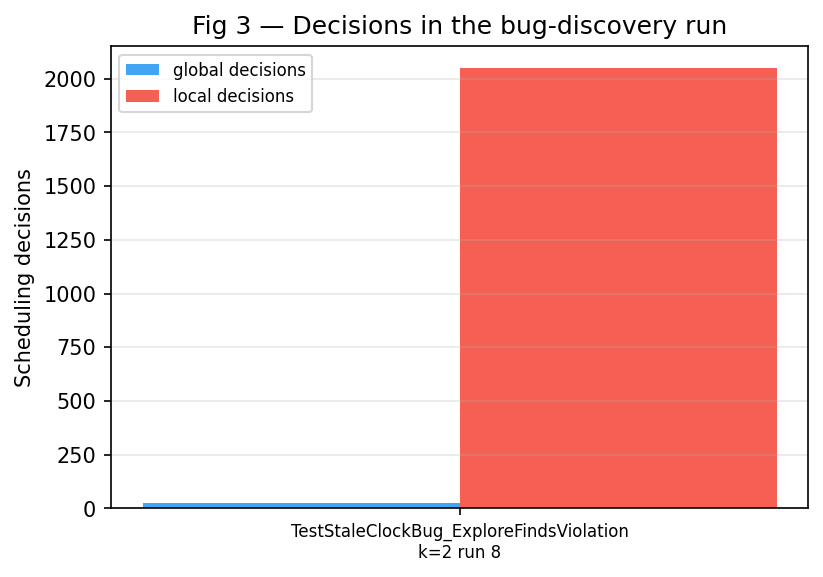
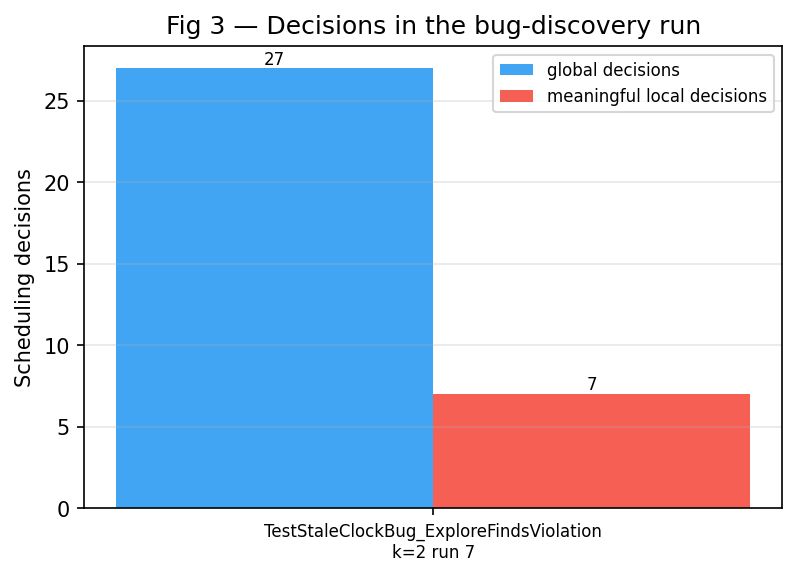
update local decision data count

diff --git a/orchestratorv2/metrics.go b/orchestratorv2/metrics.go
@@ -9,23 +9,28 @@ import (
 	"strconv"
 	"strings"
 	"testing"
+	"testing/synctest"
 	"time"
 )
 
 // RunRecord is the JSON-serializable snapshot of one exploration run.
 // Written to a JSONL file by NewJSONLObserver; read by charts/charts.py.
 type RunRecord struct {
-	RunNum              int             `json:"run_num"`
-	NonFIFO             int             `json:"non_fifo"`
-	ElapsedNs           int64           `json:"elapsed_ns"`
-	LogicalTimeNs       int64           `json:"logical_time_ns"`
-	Passed              bool            `json:"passed"`
-	GlobalDecisionCount int             `json:"global_decision_count"`
-	LocalDecisionTotal  int             `json:"local_decision_total"`
-	LocalDecisionByNode map[string]int  `json:"local_decision_by_node,omitempty"`
-	QueueSizes          []int           `json:"queue_sizes"`
-	TraceFingerprint    string          `json:"trace_fingerprint"`
-	DeliverSeq          []DeliverRecord `json:"deliver_seq"`
+	RunNum                int                              `json:"run_num"`
+	NonFIFO               int                              `json:"non_fifo"`
+	ElapsedNs             int64                            `json:"elapsed_ns"`
+	LogicalTimeNs         int64                            `json:"logical_time_ns"`
+	Passed                bool                             `json:"passed"`
+	GlobalDecisionCount   int                              `json:"global_decision_count"`
+	LocalDecisionTotal    int                              `json:"local_decision_total"`
+	LocalDecisionByNode   map[string]int                   `json:"local_decision_by_node,omitempty"`
+	LocalTraceTotal       int                              `json:"local_trace_total,omitempty"`
+	LocalTraceByNodeCount map[string]int                   `json:"local_trace_by_node_count,omitempty"`
+	LocalDecisionCapNode  map[string]bool                  `json:"local_decision_at_cap_by_node,omitempty"`
+	LocalTraceByNode      map[string][]LocalDecisionRecord `json:"local_trace_by_node,omitempty"`
+	QueueSizes            []int                            `json:"queue_sizes"`
+	TraceFingerprint      string                           `json:"trace_fingerprint"`
+	DeliverSeq            []DeliverRecord                  `json:"deliver_seq"`
 }
 
 // DeliverRecord captures one message delivery step in a run.
@@ -37,7 +42,19 @@ type DeliverRecord struct {
 	QueueSize int    `json:"queue_size"`
 }
 
+// LocalDecisionRecord is a compact JSON representation of one synctest
+// scheduler decision inside a node bubble.
+type LocalDecisionRecord struct {
+	Step       int32    `json:"step"`
+	Index      int32    `json:"index"`
+	ChosenBgid uint32   `json:"chosen_bgid"`
+	RunqSize   int32    `json:"runq_size"`
+	RunqBgids  []uint32 `json:"runq_bgids,omitempty"`
+	WaitReason uint8    `json:"wait_reason"`
+}
+
 const synctestBaseTimeNs = int64(946684800000000000)
+const localDecisionRecordLimit = 512
 
 // NewJSONLObserver returns a RunObserver that appends one JSON line per run to w.
 // Each line is a RunRecord containing timing, decision counts, queue-size
@@ -59,12 +76,51 @@ func NewJSONLObserver(w io.Writer) RunObserver {
 			GlobalDecisionCount: len(rec.GlobalDecisions),
 		}
 
-		// Per-node local decision counts.
+		// Per-node local decision counts. LocalDecision* intentionally counts
+		// only meaningful application-level scheduler choices: points where
+		// more than one non-root bubble goroutine was runnable. Bgid 0 is the
+		// synctest root/control-plane goroutine, not application work.
 		r.LocalDecisionByNode = make(map[string]int, len(rec.LocalTraces))
+		r.LocalTraceByNodeCount = make(map[string]int, len(rec.LocalTraces))
+		r.LocalDecisionCapNode = make(map[string]bool, len(rec.LocalTraces))
 		for addr, decisions := range rec.LocalTraces {
-			n := len(decisions)
-			r.LocalDecisionByNode[addr] = n
-			r.LocalDecisionTotal += n
+			traceLen := len(decisions)
+			meaningful := meaningfulLocalDecisionCount(decisions)
+			r.LocalTraceByNodeCount[addr] = traceLen
+			r.LocalTraceTotal += traceLen
+			r.LocalDecisionByNode[addr] = meaningful
+			r.LocalDecisionTotal += meaningful
+			if traceLen >= localDecisionRecordLimit {
+				r.LocalDecisionCapNode[addr] = true
+			}
+		}
+		if len(r.LocalDecisionCapNode) == 0 {
+			r.LocalDecisionCapNode = nil
+		}
+		if includeLocalTrace(passed) {
+			r.LocalTraceByNode = make(map[string][]LocalDecisionRecord, len(rec.LocalTraces))
+			for addr, decisions := range rec.LocalTraces {
+				trace := make([]LocalDecisionRecord, 0, len(decisions))
+				for _, d := range decisions {
+					n := int(d.RunqSize)
+					if n > len(d.RunqBgids) {
+						n = len(d.RunqBgids)
+					}
+					runqBgids := make([]uint32, 0, n)
+					for i := 0; i < n; i++ {
+						runqBgids = append(runqBgids, d.RunqBgids[i])
+					}
+					trace = append(trace, LocalDecisionRecord{
+						Step:       d.Step,
+						Index:      d.Index,
+						ChosenBgid: d.ChosenBgid,
+						RunqSize:   d.RunqSize,
+						RunqBgids:  runqBgids,
+						WaitReason: d.WaitReason,
+					})
+				}
+				r.LocalTraceByNode[addr] = trace
+			}
 		}
 
 		// Walk GlobalTrace to extract StepDeliver entries.
@@ -101,6 +157,37 @@ func NewJSONLObserver(w io.Writer) RunObserver {
 		r.TraceFingerprint = fp.String()
 
 		enc.Encode(r) //nolint:errcheck
+	}
+}
+
+func meaningfulLocalDecisionCount(decisions []synctest.Decision) int {
+	count := 0
+	for _, d := range decisions {
+		nonRootRunnable := 0
+		n := int(d.RunqSize)
+		if n > len(d.RunqBgids) {
+			n = len(d.RunqBgids)
+		}
+		for i := 0; i < n; i++ {
+			if d.RunqBgids[i] != 0 {
+				nonRootRunnable++
+			}
+		}
+		if nonRootRunnable > 1 {
+			count++
+		}
+	}
+	return count
+}
+
+func includeLocalTrace(passed bool) bool {
+	switch strings.ToLower(os.Getenv("METRICS_INCLUDE_LOCAL_TRACE")) {
+	case "1", "true", "yes", "all":
+		return true
+	case "fail", "failed", "failure":
+		return !passed
+	default:
+		return false
 	}
 }
 

diff --git a/charts/charts.py b/charts/charts.py
@@ -151,6 +151,15 @@ def load_file(spec: str) -> pd.DataFrame:
     if "logical_time_ns" not in df.columns:
         df["logical_time_ns"] = 0
     df["logical_time_ms"] = df["logical_time_ns"] / 1e6
+    if "local_trace_by_node" in df.columns:
+        has_trace = df["local_trace_by_node"].apply(lambda traces: isinstance(traces, dict))
+        if has_trace.any():
+            df.loc[has_trace, "local_decision_by_node"] = df.loc[has_trace, "local_trace_by_node"].apply(
+                meaningful_local_counts
+            )
+            df.loc[has_trace, "local_decision_total"] = df.loc[has_trace, "local_decision_by_node"].apply(
+                lambda counts: sum(counts.values()) if isinstance(counts, dict) else 0
+            )
     df["total_decisions"] = df["global_decision_count"] + df["local_decision_total"]
 
     return df
@@ -196,6 +205,21 @@ def first_failure_run(df: pd.DataFrame) -> Optional[int]:
 def unique_fingerprints(df: pd.DataFrame) -> int:
     """Count distinct trace fingerprints in df."""
     return df["trace_fingerprint"].nunique()
+
+
+def meaningful_local_counts(traces: dict) -> Dict[str, int]:
+    """Count local choices where more than one non-root goroutine was runnable."""
+    counts = {}
+    for node, trace in traces.items():
+        count = 0
+        for d in trace:
+            bgids = d.get("runq_bgids", [])
+            runq_size = min(int(d.get("runq_size", len(bgids))), len(bgids))
+            non_root = sum(1 for bgid in bgids[:runq_size] if bgid != 0)
+            if non_root > 1:
+                count += 1
+        counts[node] = count
+    return counts
 
 
 def theoretical_interleavings(df: pd.DataFrame) -> int:
@@ -351,8 +375,14 @@ def fig3_decisions_at_bug(df: pd.DataFrame, outdir: str):
     fig, ax = plt.subplots(figsize=(max(6, len(labels) * 1.5), 4))
     x = np.arange(len(labels))
     width = 0.35
-    ax.bar(x - width/2, global_counts, width, label="global decisions", color=PALETTE[0], alpha=0.85)
-    ax.bar(x + width/2, local_counts, width, label="local decisions", color=PALETTE[1], alpha=0.85)
+    global_bars = ax.bar(x - width/2, global_counts, width, label="global decisions", color=PALETTE[0], alpha=0.85)
+    local_bars = ax.bar(x + width/2, local_counts, width, label="meaningful local decisions", color=PALETTE[1], alpha=0.85)
+    for bar, value in zip(global_bars, global_counts):
+        ax.text(bar.get_x() + bar.get_width()/2, bar.get_height(), f"{int(value)}",
+                ha="center", va="bottom", fontsize=8)
+    for bar, value in zip(local_bars, local_counts):
+        ax.text(bar.get_x() + bar.get_width()/2, bar.get_height(), f"{int(value)}",
+                ha="center", va="bottom", fontsize=8)
 
     ax.set_xticks(x)
     ax.set_xticklabels(labels, fontsize=8)

diff --git a/orchestratorv2/eval.md b/orchestratorv2/eval.md
@@ -175,9 +175,9 @@ Called once per `runOnce` invocation inside `Explore`, this unblocks the chart g
 **X-axis**: bug scenario and context bound for the run where the bug is found.
 **Y-axis**: scheduling decisions made in that specific failing run, plotted separately for global and local decisions.
 
-**What it shows**: how many scheduling choices were needed in the exact run that exposed the bug. Global decisions measure cross-node delivery choices; local decisions measure intra-bubble scheduling work. Plotting them separately is more informative than combining them: a bug may be primarily about message ordering, local goroutine ordering, or both.
+**What it shows**: how many scheduling choices were needed in the exact run that exposed the bug. Global decisions measure cross-node delivery choices. Local decisions count only meaningful intra-bubble choices: scheduler decision points where more than one non-root bubble goroutine was runnable. Bgid 0 is the synctest root/control-plane goroutine and is excluded from the local-choice definition. Plotting global and local decisions separately is more informative than combining them: a bug may be primarily about message ordering, local goroutine ordering, or both.
 
-**Data source**: `global_decision_count`, `local_decision_total`, `run_num`, and `passed` from the JSONL metrics records. For each scenario/k/mode, select the first row where `passed == false`.
+**Data source**: `global_decision_count`, `local_decision_total`, `run_num`, and `passed` from the JSONL metrics records. For each scenario/k/mode, select the first row where `passed == false`. For local decisions, `orchestratorv2/metrics.go` scans the synctest trace and counts a decision only when the recorded run queue contains at least two non-root goroutines.
 
 **Status: implemented in `charts/charts.py` as `fig3_decisions_at_bug.png`.**
 
